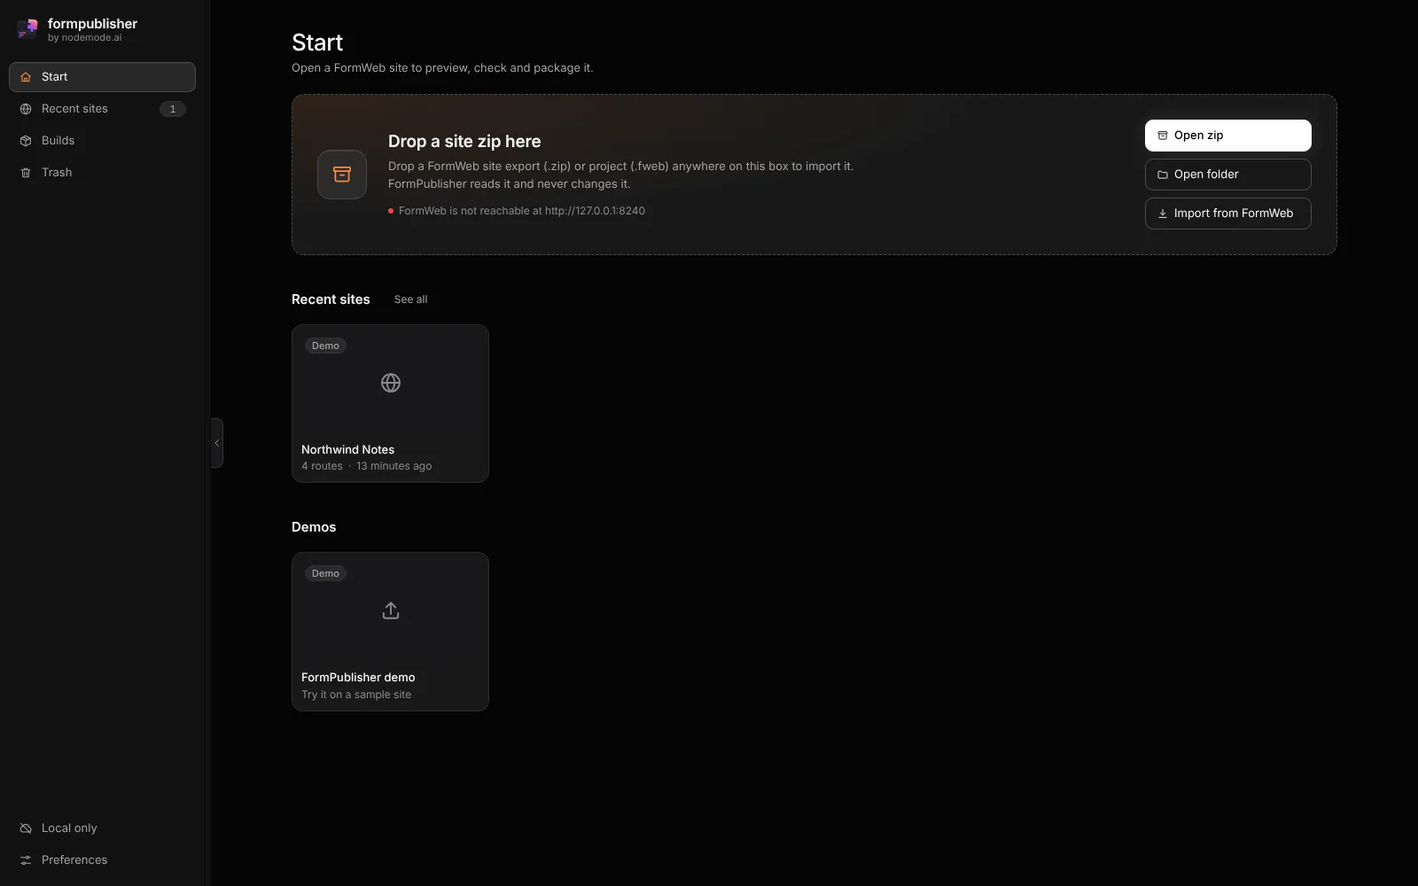
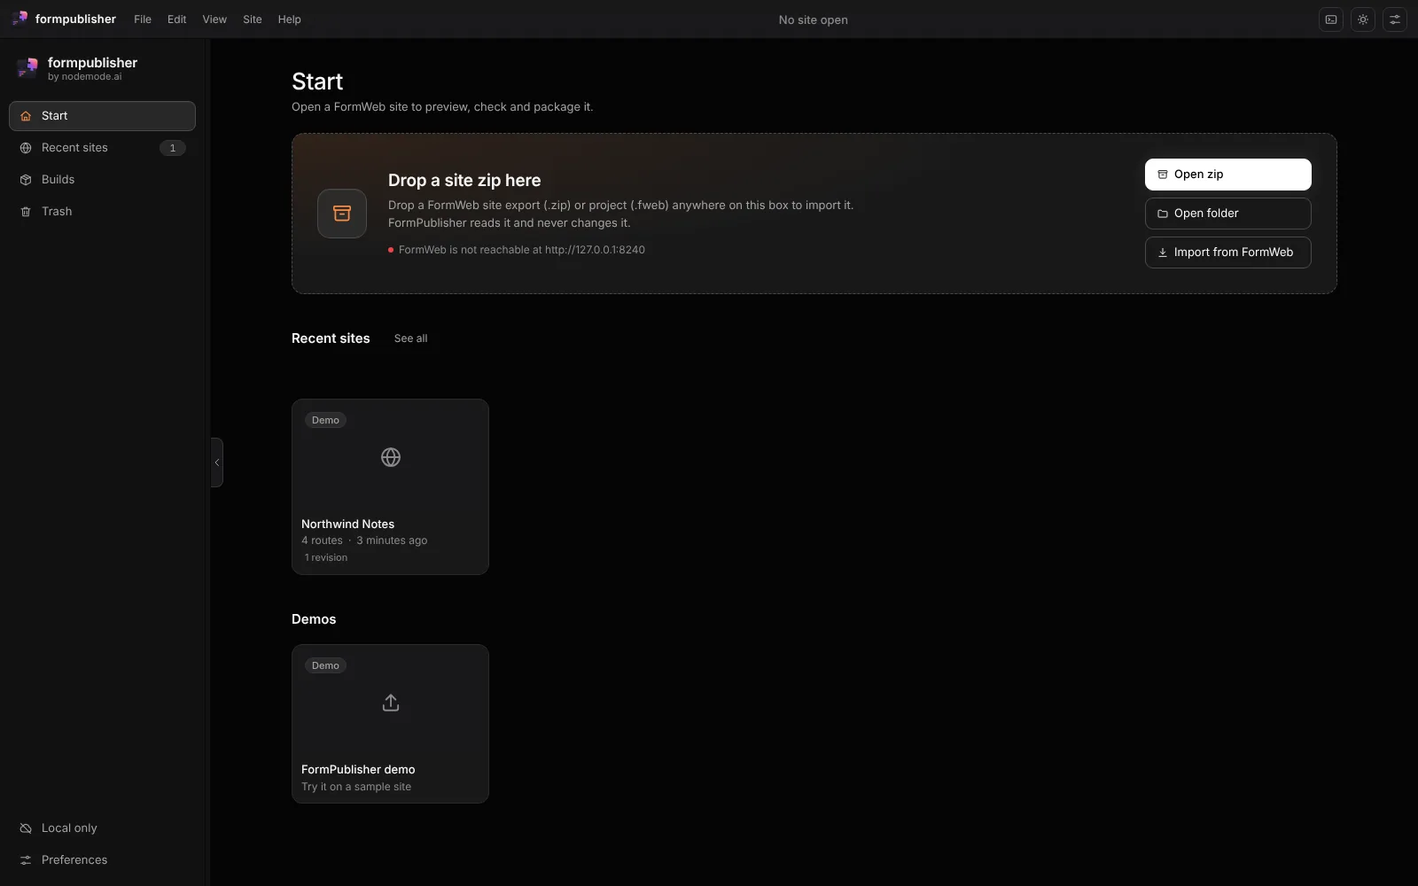
docs: restoring old trash entries, the origin dialog, Recent's notice and Home under the title bar, with new screenshots (0.1.5)
The manual covers inferred origins for pre-0.1.4 entries (old prepared folders prepared again from their build), the origin-unknown answer and the Where does it go dialog, the {origin} body and trash restore --to, MCP restoring only recorded or inferred origins, Recent's notice and Show, Home under the title bar, and stable deep problem ids; the wiki (Getting-Started, Agents, Checks), the README and the harness skill follow, mirrored to .agents. Home now sits under the title bar, so the Home, Revisions, Preferences, Trash and Shortcuts screenshots were retaken at their old sizes in both themes, and a Recent notice pair was added.

Run: ./formpublisher agents sync --check (in step); every new image read and checked; no em dashes in added lines.

diff --git a/docs/MANUAL.md b/docs/MANUAL.md
@@ -50,7 +50,13 @@ In the desktop app, Open Folder uses the system folder panel. Cancelling the pan
 
 ## Home
 
-Home is the start page. It offers a drop zone for a FormWeb export, the list of recent sites, and your open sites. Opening a site puts it in a tab.
+Home is the start page. It offers a drop zone for a FormWeb export, the list of recent sites, and your open sites. Opening a site puts it in a tab. Home starts under the title bar, so the brand, the menubar, the theme button and Preferences stay usable while Home is open; only the content below the title bar is locked.
+
+![Home with the Northwind Notes site in Recent and the demo card](images/home-light.webp)
+
+Recent sites keep still while they are on screen. When a site arrives (for example from FormWeb's Send to FormPublisher) while Start or Recent sites is showing, the cards do not move. A row above each list says how many new sites arrived, and Show re-sorts the list with the new sites in place. The row is always there, empty when nothing arrived, so the cards never shift. When Recent is not on screen the lists update as before.
+
+![The Recent sites list with a notice that 1 new site arrived and the Show button](images/recent-notice-light.webp)
 
 ## Importing a site
 
@@ -68,9 +74,13 @@ A site's routes come from its `routes.json`. Each has a path, a page, a locale, 
 
 Removing a site, a build, a signing key or a prepared folder moves it to `trash/` in the data folder; nothing is deleted at once. Each entry gets a `.trash.json` record beside it with its kind, label, origin, time and size. Home's Trash page lists the entries newest first with a kind icon, the label, the kind, the time and the size. Restore moves an entry back to where it came from. Delete for good and Empty Trash remove entries for good, and both ask first. The page refreshes by itself when something is removed or restored, and restoring a site refreshes Recent.
 
-A restore only goes ahead when the place is free: if something already sits at the origin (or a key with the same id exists) it answers 409 with the reason, and the window shows it as a notice. Entries moved to the trash before 0.1.4 have no record; they are listed with a kind taken from their name but cannot be restored.
+A restore only goes ahead when the place is free: if something already sits at the origin (or a key with the same id exists) it answers 409 with the reason, and the window shows it as a notice. Entries moved to the trash before 0.1.4 have no record. Their kind and origin are inferred from the name: a site from its `site.json` id, a key from its `entry.json`, a build from `build-[site]-[12 hex]-[stamp]`, and a prepared folder from `prepared-[site]-[build]-[target]-[stamp]`, matched against the known targets and the build id. A stamp may end in a `-N` counter. The list marks such rows as inferred, and they restore like any other. A prepared folder from before 0.1.4 lost its hidden record, so restoring it prepares the same target again from its build, which gives the same folder; if the build is gone or is itself in the trash, the restore answers 409 naming it.
 
-The routes are `GET /api/trash`, `POST /api/trash/{entry}/restore`, `DELETE /api/trash/{entry}` and `DELETE /api/trash` (empty). An entry name is only accepted when it appears in the folder listing. See [The command line](#the-command-line) and [The MCP server](#the-mcp-server) for the agent side: an agent can list the trash and restore from it, but deleting for good stays with a person.
+An entry whose origin cannot be recorded or inferred answers 409 with the code `origin-unknown`. Restore it to a named place: the window opens a "Where does it go" dialog that shows the kind's own folder as a fixed prefix and asks for the name, a key getting `.pem` added. The engine's refusal shows inside the dialog, which stays open until the name is accepted. The same restore is `POST /api/trash/{entry}/restore` with the body `{"origin": "..."}` and `trash restore ENTRY --to PATH` on the command line. The origin is used only when none is recorded or inferred, it must be free, and it must resolve inside the kind's own folder (a key directly in `keys/`); a path that leaves it, an absolute path, one of another kind or a taken place is refused.
+
+![The Trash page with a removed site, key and build](images/trash-light.webp)
+
+The routes are `GET /api/trash`, `POST /api/trash/{entry}/restore`, `DELETE /api/trash/{entry}` and `DELETE /api/trash` (empty). An entry name is only accepted when it appears in the folder listing. See [The command line](#the-command-line) and [The MCP server](#the-mcp-server) for the agent side: an agent can list the trash and restore from it to a recorded or inferred origin, but restoring to a named place and deleting for good stay with a person.
 
 ## Keyboard shortcuts
 
@@ -120,7 +130,7 @@ The routes strip shows a thumbnail box and a status dot per route: none when not
 
 ## Checks
 
-Checks produce problems. Each problem has an id (stable for the same finding), a tier (`static`, `live` or `deep`), a severity (`error`, `warning`, `info`), a code, the route, a message and a fix, and optionally the file, line, selector and URL. The Problems tab lists them with filters by severity and tier, and clicking a row selects its route. Counts show in the tab and the status bar. Run checks starts the static tier; Deep check starts the deep tier.
+Checks produce problems. Each problem has an id (stable for the same finding, and for a deep problem the same on every run: the id hashes the failing URL with the site host's port left out, so a new run on a new port gives the same ids; messages and the url field still show the real address), a tier (`static`, `live` or `deep`), a severity (`error`, `warning`, `info`), a code, the route, a message and a fix, and optionally the file, line, selector and URL. The Problems tab lists them with filters by severity and tier, and clicking a row selects its route. Counts show in the tab and the status bar. Run checks starts the static tier; Deep check starts the deep tier.
 
 ### Static tier
 
@@ -319,7 +329,7 @@ The loop is: import a site, list its routes (and, for a site that arrived again,
 | `prepare BUILD --target T [--target T] [--include-model]` | prepares a folder per target, with the commands to run; FormWeb's model files are left out unless `--include-model` |
 | `prepared BUILD` | lists what is prepared for a build |
 | `trash` | lists the trash, newest first, with each entry's kind, label, time and size |
-| `trash restore ENTRY` | moves an entry back to where it came from; fails with the reason when the place is taken |
+| `trash restore ENTRY [--to PATH]` | moves an entry back to where it came from; fails with the reason when the place is taken. `--to` names the place for an entry whose origin is unknown, inside the kind's own folder |
 | `trash delete ENTRY` | deletes one entry for good |
 | `trash empty --yes` | deletes every entry for good; refuses to run without `--yes` |
 | `receive-status` | the receive endpoint, the inbox folder and the last receipts |
@@ -357,7 +367,7 @@ Answers are short text, or JSON with `--json`. A failure exits non-zero with the
 | `prepare_publish` | prepares a folder per host for a build, with commands, notes and warnings; `includeModel: true` keeps FormWeb's model files, and `leftOut` lists what was left out |
 | `get_prepared` | what is prepared for a build (read only) |
 | `list_trash` | the trash entries, newest first (read only) |
-| `restore_from_trash` | moves an entry back to where it came from |
+| `restore_from_trash` | moves an entry back to where it came from; only a recorded or inferred origin, with no way to name a place |
 
 There is no tool that deletes. Deleting an entry for good or emptying the trash is for a person, in the window or with `trash delete` and `trash empty --yes`.
 

diff --git a/.docs/wiki/Agents.md b/.docs/wiki/Agents.md
@@ -4,11 +4,11 @@ FormPublisher's engine does every step a person does, so agents drive it the sam
 
 ## The command line
 
-`./formpublisher run` has a command for each step: `status`, `sites`, `import` (a `site-export.zip` or a publication folder), `import-formweb` (the site open in a running FormWeb, read through its export), `routes SITE-ID`, `revisions SITE-ID`, `diff SITE-ID` (`--from R`, `--to R`; default the latest against the one before), `check SITE-ID` (`--deep`, `--widths`, `--last`), `build SITE-ID`, `builds`, `sign BUILD`, `verify BUILD`, `keys` (`--create NAME`), `targets`, `prepare BUILD --target T` (repeat `--target`; `--include-model` keeps FormWeb's model files, which are left out by default), `prepared BUILD`, `trash` (`trash restore ENTRY`, `trash delete ENTRY` and `trash empty --yes`) and `receive-status`. `./formpublisher run --help` lists every command and its options. Answers are short text, or JSON with `--json`; failures exit non-zero with the reason in plain words. It uses a running engine with the same data folder, or runs in-process. The desktop app's frozen engine takes the same commands (`formpublisher-engine cli ...`).
+`./formpublisher run` has a command for each step: `status`, `sites`, `import` (a `site-export.zip` or a publication folder), `import-formweb` (the site open in a running FormWeb, read through its export), `routes SITE-ID`, `revisions SITE-ID`, `diff SITE-ID` (`--from R`, `--to R`; default the latest against the one before), `check SITE-ID` (`--deep`, `--widths`, `--last`), `build SITE-ID`, `builds`, `sign BUILD`, `verify BUILD`, `keys` (`--create NAME`), `targets`, `prepare BUILD --target T` (repeat `--target`; `--include-model` keeps FormWeb's model files, which are left out by default), `prepared BUILD`, `trash` (`trash restore ENTRY` with `--to PATH` to name the place of an entry whose origin is unknown, `trash delete ENTRY` and `trash empty --yes`) and `receive-status`. `./formpublisher run --help` lists every command and its options. Answers are short text, or JSON with `--json`; failures exit non-zero with the reason in plain words. It uses a running engine with the same data folder, or runs in-process. The desktop app's frozen engine takes the same commands (`formpublisher-engine cli ...`).
 
 ## The MCP server
 
-`./formpublisher mcp` serves MCP on stdio. `.mcp.json` registers it for Claude Code in this repository, `.codex/config.toml` for Codex and `.cursor/mcp.json` for Cursor. It has 18 tools over the same routes: `formpublisher_status`, `list_sites`, `import_site`, `import_formweb_current`, `site_routes`, `list_revisions` and `diff_revisions` (read only: a site's revisions, and the files and routes added, removed and changed between two), `run_checks`, `get_checks`, `build_package`, `list_builds`, `sign_build`, `verify_build`, `list_targets`, `prepare_publish` (with `includeModel`, and `leftOut` in each result), `get_prepared`, `list_trash` (read only) and `restore_from_trash`. No tool deletes: removing an entry from the trash for good is a person's action. Reads carry the read-only hint. What an agent does appears in the open window at once through the engine's live events. Preparing writes a folder and never uploads; see [Publishing](Publishing).
+`./formpublisher mcp` serves MCP on stdio. `.mcp.json` registers it for Claude Code in this repository, `.codex/config.toml` for Codex and `.cursor/mcp.json` for Cursor. It has 18 tools over the same routes: `formpublisher_status`, `list_sites`, `import_site`, `import_formweb_current`, `site_routes`, `list_revisions` and `diff_revisions` (read only: a site's revisions, and the files and routes added, removed and changed between two), `run_checks`, `get_checks`, `build_package`, `list_builds`, `sign_build`, `verify_build`, `list_targets`, `prepare_publish` (with `includeModel`, and `leftOut` in each result), `get_prepared`, `list_trash` (read only) and `restore_from_trash`, which restores only a recorded or inferred origin. No tool deletes or restores to a named place: removing an entry from the trash for good, and `trash restore --to`, are a person's actions. Reads carry the read-only hint. What an agent does appears in the open window at once through the engine's live events. Preparing writes a folder and never uploads; see [Publishing](Publishing).
 
 ## Connect
 

diff --git a/README.md b/README.md
@@ -74,7 +74,7 @@
   <tr>
     <td width="50%" valign="top">
       <h3>A window you know</h3>
-      Home with Start and Recent, one tab per open site, a title bar, a status bar, a dark theme and a light one, built on the same layout as FormDeck.
+      Home with Start and Recent (under the title bar, with Recent keeping still when a site arrives), one tab per open site, a title bar, a status bar, a dark theme and a light one, built on the same layout as FormDeck.
     </td>
     <td width="50%" valign="top">
       <h3>26 interface languages</h3>
@@ -124,7 +124,7 @@
   <tr>
     <td width="50%" valign="top">
       <h3>Trash</h3>
-      Removed sites, builds, keys and prepared folders wait in a Trash on Home with their kind, time and size. Restore puts one back where it came from when the place is free; Delete for good and Empty Trash ask first.
+      Removed sites, builds, keys and prepared folders wait in a Trash on Home with their kind, time and size. Restore puts one back where it came from when the place is free, entries from before 0.1.4 included; when the place is unknown a dialog asks where it goes. Delete for good and Empty Trash ask first.
     </td>
     <td width="50%" valign="top">
       <h3>Rebindable shortcuts</h3>
@@ -185,6 +185,9 @@ Taken from the running app on the demo site, at 1600 by 1000, in the dark and th
     <td width="50%" valign="top"><b>Preferences</b><br><picture><source media="(prefers-color-scheme: dark)" srcset="docs/images/preferences-dark.webp"><img alt="Preferences, FormWeb section, with the Check a site when it arrives and Build a site when it arrives switches" src="docs/images/preferences-light.webp"></picture></td>
     <td width="50%" valign="top"><b>Desktop splash</b><br><img alt="The 360 by 200 splash of the desktop app with the gradient progress bar" src="docs/images/splash.webp"></td>
   </tr>
+  <tr>
+    <td width="50%" valign="top"><b>Recent, new site arrived</b><br><picture><source media="(prefers-color-scheme: dark)" srcset="docs/images/recent-notice-dark.webp"><img alt="Recent sites with the notice row saying 1 new site arrived and the Show button" src="docs/images/recent-notice-light.webp"></picture></td>
+  </tr>
 </table>
 
 ## Everything in the box
@@ -224,7 +227,7 @@ The window, the command line and the MCP server call one engine, so an agent and
 | `check ID`, `build ID`, `builds` | run the checks, build the package, list builds |
 | `sign BUILD`, `verify BUILD`, `keys` | sign, verify (exits 1 when invalid), list or create (`--create NAME`) keys |
 | `targets`, `prepare BUILD --target T [--include-model]`, `prepared BUILD` | list hosts, prepare a folder per host (FormWeb's model files left out unless `--include-model`), list what is prepared |
-| `trash`, `trash restore ENTRY`, `trash delete ENTRY`, `trash empty --yes` | list the trash, move an entry back, delete one for good, empty it (refuses without `--yes`) |
+| `trash`, `trash restore ENTRY`, `trash delete ENTRY`, `trash empty --yes` | list the trash, move an entry back (`--to PATH` names the place when it is unknown), delete one for good, empty it (refuses without `--yes`) |
 | `receive-status` | the receive endpoint, the inbox folder and the last receipts |
 
 Every command takes `--json`. The MCP server has 18 tools over the same routes:
@@ -238,7 +241,7 @@ Every command takes `--json`. The MCP server has 18 tools over the same routes:
 | `build_package`, `list_builds` | build the package, list builds |
 | `sign_build`, `verify_build` | sign with a named key, verify a signature |
 | `list_targets`, `prepare_publish`, `get_prepared` | list the six hosts, prepare folders with their commands (`includeModel` keeps FormWeb's model files), read what is prepared |
-| `list_trash`, `restore_from_trash` | read the trash, move an entry back (no tool deletes) |
+| `list_trash`, `restore_from_trash` | read the trash, move an entry back to its recorded or inferred origin (no tool deletes) |
 
 `.mcp.json`, `.codex/config.toml` and `.cursor/mcp.json` are already wired in this repo, with the `formpublisher-harness` skill for driving the app and `formpublisher-skillset` for changing it. See [`AGENTS.md`](AGENTS.md).
 

diff --git a/.agents/skills/formpublisher-harness/SKILL.md b/.agents/skills/formpublisher-harness/SKILL.md
@@ -42,9 +42,9 @@ These are the exact MCP tool names, with the command that does the same thing. I
 | `prepare_publish` (build, targets, includeModel) | `prepare BUILD --target T [--target T] [--include-model]` | a folder per target with the commands to run | no |
 | `get_prepared` (build) | `prepared BUILD` | what is already prepared | yes |
 | `list_trash` | `trash` | trash entries newest first, with kind, label, origin, time and size | yes |
-| `restore_from_trash` (entry) | `trash restore ENTRY` | move an entry back to where it came from; 409 with the reason when the place is taken or the entry predates 0.1.4 | no |
+| `restore_from_trash` (entry) | `trash restore ENTRY` | move an entry back to its recorded or inferred origin (entries from before 0.1.4 have an inferred one); 409 with the reason when the place is taken, and 409 `origin-unknown` when there is none | no |
 
-Not tools: `trash delete ENTRY` deletes one trash entry for good and `trash empty --yes` deletes them all. There is no tool for either, and deleting stays a person's action: do it only when the person asks for that entry. `keys` lists the signing keys and `keys --create NAME [--passphrase P]` makes one, and `receive-status` shows the endpoint, inbox folder and last receipts for FormWeb's Send to FormPublisher. `agents sync` is `./formpublisher agents sync`.
+Not tools: `trash delete ENTRY` deletes one trash entry for good and `trash empty --yes` deletes them all. There is no tool for either, and deleting stays a person's action: do it only when the person asks for that entry. `trash restore ENTRY --to PATH` (the HTTP body `{origin}`, or the Trash page's "Where does it go" dialog) restores to a named place for an entry whose origin is unknown; it stays a person's or the command line's action, and the MCP tool only restores recorded or inferred origins, so when it answers `origin-unknown` tell the person rather than inventing a path. `keys` lists the signing keys and `keys --create NAME [--passphrase P]` makes one, and `receive-status` shows the endpoint, inbox folder and last receipts for FormWeb's Send to FormPublisher. `agents sync` is `./formpublisher agents sync`.
 
 ## The loop
 
@@ -90,7 +90,7 @@ FormPublisher prepares; it never uploads. Publishing is a chain, and each link n
 
 A site sent from FormWeb's Send to FormPublisher arrives on its own: it is imported by the running window's engine, or dropped in the data folder's `inbox/` while FormPublisher is closed. Either way, a site sent again becomes a new revision of the same site, so `list_revisions` and `diff_revisions` show what changed between sends. It then shows in `list_sites` like any import. Two Preferences settings, off by default, run the static checks and a build on every arrival; when they are on, call `get_checks` and `list_builds` instead of running them again.
 
-Removing a site, build, key or prepared folder moves it to the trash, so `list_trash` shows it and `restore_from_trash` brings it back when the person asks. Use the entry name `list_trash` returned.
+Removing a site, build, key or prepared folder moves it to the trash, so `list_trash` shows it and `restore_from_trash` brings it back when the person asks, entries from before 0.1.4 included. Use the entry name `list_trash` returned.
 
 A `.fweb` project (envelope format `com.nodemode.formweb`, or FormWeb's version 2 zip of up to 512 MiB) imports the same way. It needs `formweb-core`; without it the import fails with 422 and the message says to run `./setup/install_compiler`. Tell the person; do not try to work around it.
 

diff --git a/.claude/skills/formpublisher-harness/SKILL.md b/.claude/skills/formpublisher-harness/SKILL.md
@@ -42,9 +42,9 @@ These are the exact MCP tool names, with the command that does the same thing. I
 | `prepare_publish` (build, targets, includeModel) | `prepare BUILD --target T [--target T] [--include-model]` | a folder per target with the commands to run | no |
 | `get_prepared` (build) | `prepared BUILD` | what is already prepared | yes |
 | `list_trash` | `trash` | trash entries newest first, with kind, label, origin, time and size | yes |
-| `restore_from_trash` (entry) | `trash restore ENTRY` | move an entry back to where it came from; 409 with the reason when the place is taken or the entry predates 0.1.4 | no |
+| `restore_from_trash` (entry) | `trash restore ENTRY` | move an entry back to its recorded or inferred origin (entries from before 0.1.4 have an inferred one); 409 with the reason when the place is taken, and 409 `origin-unknown` when there is none | no |
 
-Not tools: `trash delete ENTRY` deletes one trash entry for good and `trash empty --yes` deletes them all. There is no tool for either, and deleting stays a person's action: do it only when the person asks for that entry. `keys` lists the signing keys and `keys --create NAME [--passphrase P]` makes one, and `receive-status` shows the endpoint, inbox folder and last receipts for FormWeb's Send to FormPublisher. `agents sync` is `./formpublisher agents sync`.
+Not tools: `trash delete ENTRY` deletes one trash entry for good and `trash empty --yes` deletes them all. There is no tool for either, and deleting stays a person's action: do it only when the person asks for that entry. `trash restore ENTRY --to PATH` (the HTTP body `{origin}`, or the Trash page's "Where does it go" dialog) restores to a named place for an entry whose origin is unknown; it stays a person's or the command line's action, and the MCP tool only restores recorded or inferred origins, so when it answers `origin-unknown` tell the person rather than inventing a path. `keys` lists the signing keys and `keys --create NAME [--passphrase P]` makes one, and `receive-status` shows the endpoint, inbox folder and last receipts for FormWeb's Send to FormPublisher. `agents sync` is `./formpublisher agents sync`.
 
 ## The loop
 
@@ -90,7 +90,7 @@ FormPublisher prepares; it never uploads. Publishing is a chain, and each link n
 
 A site sent from FormWeb's Send to FormPublisher arrives on its own: it is imported by the running window's engine, or dropped in the data folder's `inbox/` while FormPublisher is closed. Either way, a site sent again becomes a new revision of the same site, so `list_revisions` and `diff_revisions` show what changed between sends. It then shows in `list_sites` like any import. Two Preferences settings, off by default, run the static checks and a build on every arrival; when they are on, call `get_checks` and `list_builds` instead of running them again.
 
-Removing a site, build, key or prepared folder moves it to the trash, so `list_trash` shows it and `restore_from_trash` brings it back when the person asks. Use the entry name `list_trash` returned.
+Removing a site, build, key or prepared folder moves it to the trash, so `list_trash` shows it and `restore_from_trash` brings it back when the person asks, entries from before 0.1.4 included. Use the entry name `list_trash` returned.
 
 A `.fweb` project (envelope format `com.nodemode.formweb`, or FormWeb's version 2 zip of up to 512 MiB) imports the same way. It needs `formweb-core`; without it the import fails with 422 and the message says to run `./setup/install_compiler`. Tell the person; do not try to work around it.
 

diff --git a/.docs/wiki/Getting-Started.md b/.docs/wiki/Getting-Started.md
@@ -30,7 +30,7 @@ The port rule: `FORMPUBLISHER_PORT` when set, else 8280 when free, else any free
 
 ## Where things are kept
 
-Imported sites and settings live in FormPublisher's data folder: `~/FormPublisher`, or the folder named by `FORMPUBLISHER_HOME`. Removed sites, builds, keys and prepared folders go to `trash/` there; Home's Trash page restores them or deletes them for good. Keyboard Shortcuts (`Mod+/`) lets you rebind any command with Change and Reset.
+Imported sites and settings live in FormPublisher's data folder: `~/FormPublisher`, or the folder named by `FORMPUBLISHER_HOME`. Removed sites, builds, keys and prepared folders go to `trash/` there; Home's Trash page restores them (entries from before 0.1.4 too, and one whose place is unknown asks where it goes) or deletes them for good. Home sits under the title bar, so the menubar and Preferences work over it, and Recent sites stay still when a site arrives: a row says how many arrived and Show re-sorts. Keyboard Shortcuts (`Mod+/`) lets you rebind any command with Change and Reset.
 
 ## Ports
 

diff --git a/.docs/wiki/Checks.md b/.docs/wiki/Checks.md
@@ -1,6 +1,6 @@
 # Checks
 
-Checks produce problems with a stable id, a tier (`static`, `live`, `deep`), a severity (`error`, `warning`, `info`), a code, a route, a message and a fix. The Problems tab lists them, filters by severity and tier, and selects the route of a clicked row.
+Checks produce problems with a stable id (a deep problem's id does not depend on the host's port, so it is the same on every run), a tier (`static`, `live`, `deep`), a severity (`error`, `warning`, `info`), a code, a route, a message and a fix. The Problems tab lists them, filters by severity and tier, and selects the route of a clicked row.
 
 ## Static
 
